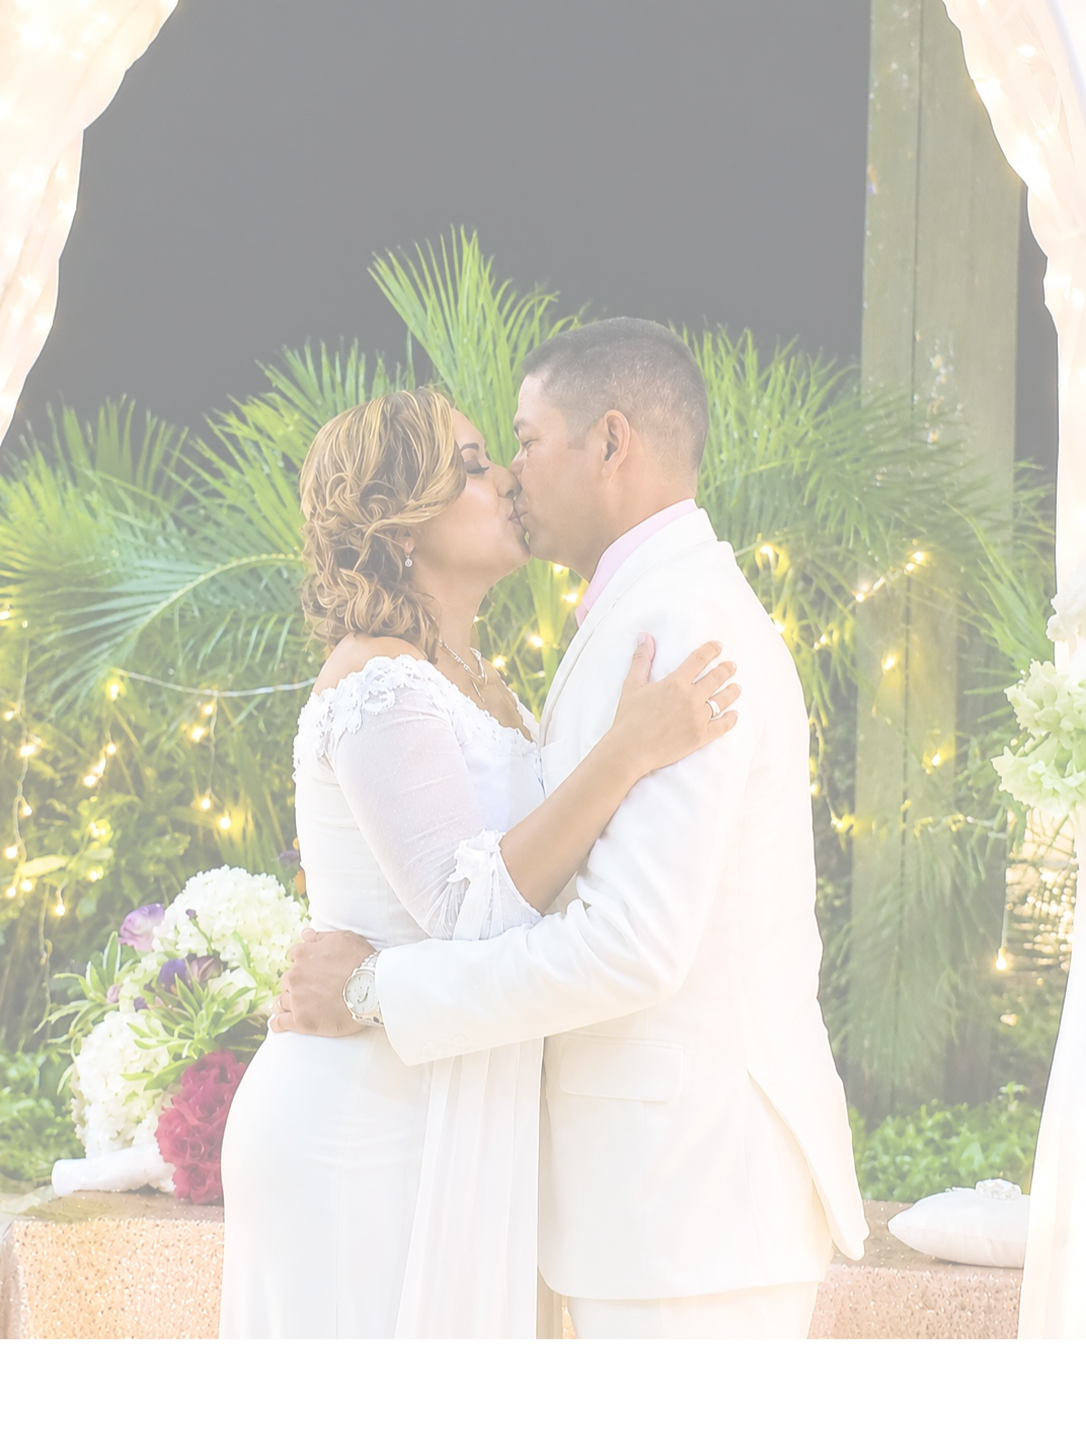
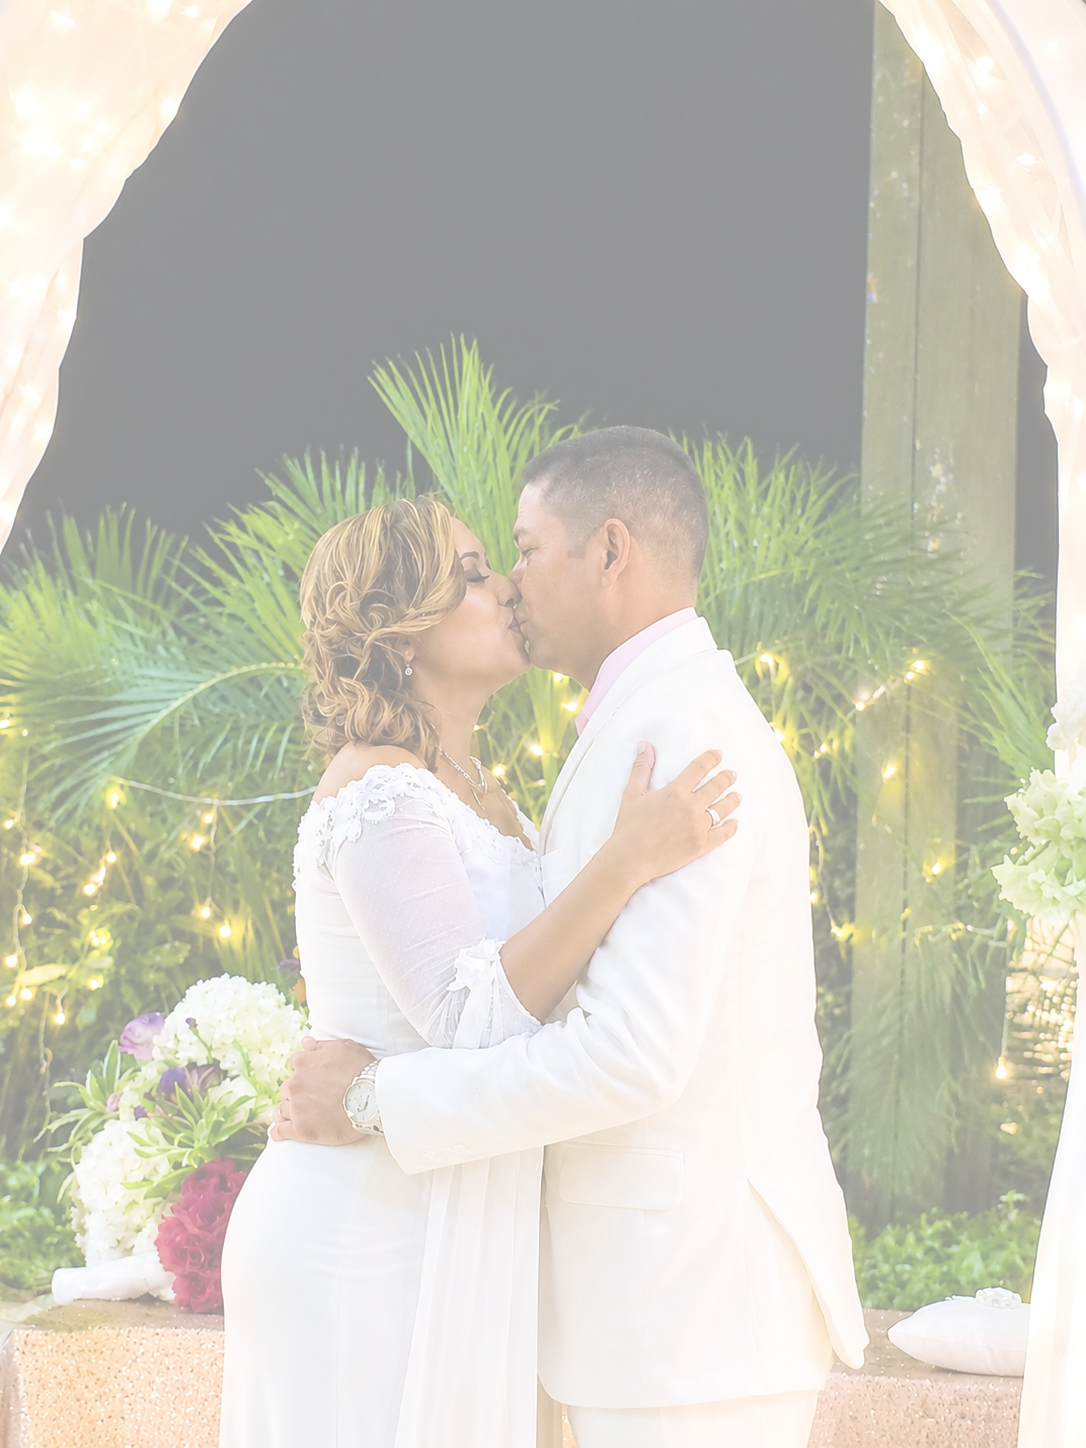
add hours

diff --git a/script.js b/script.js
@@ -88,13 +88,13 @@ document.addEventListener("DOMContentLoaded", () => {
     if (btnCalendario) {
         btnCalendario.addEventListener('click', () => {
             // URL generada con la fecha (16 Agosto 2026) y hora (3:00 PM hora Colombia)
-            const titulo = encodeURIComponent('Boda de Emanuel & Richelle');
+            const titulo = encodeURIComponent('Boda de Dely & Lily');
             const detalles = encodeURIComponent('¡Nos llena de alegría contar con tu presencia en este día tan especial!');
             const ubicacion = encodeURIComponent('Cartagena, Colombia');
 
             // Fechas en formato UTC (YYYYMMDDTHHMMSSZ). 3:00 PM Colombia (UTC-5) es 8:00 PM UTC (20:00:00).
-            const fechaInicio = '20260816T200000Z';
-            const fechaFin = '20260816T230000Z'; // Asumimos 3 horas de evento para el calendario
+            const fechaInicio = '20260627T200000Z';
+            const fechaFin = '20260627T230000Z'; // Asumimos 3 horas de evento para el calendario
 
             const googleCalendarUrl = `https://calendar.google.com/calendar/render?action=TEMPLATE&text=${titulo}&dates=${fechaInicio}/${fechaFin}&details=${detalles}&location=${ubicacion}`;
 
